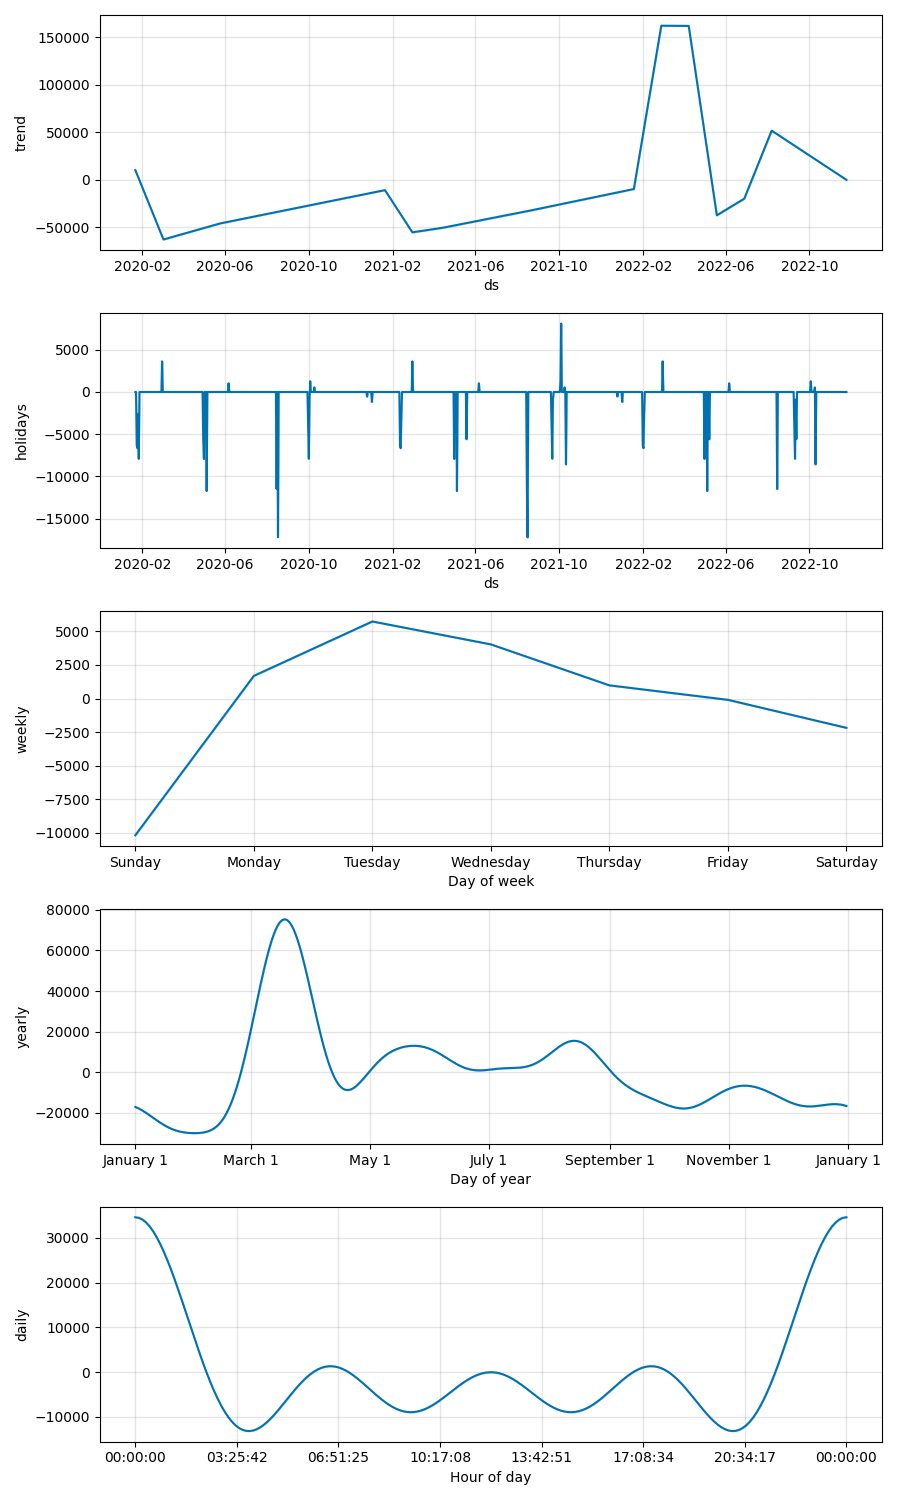
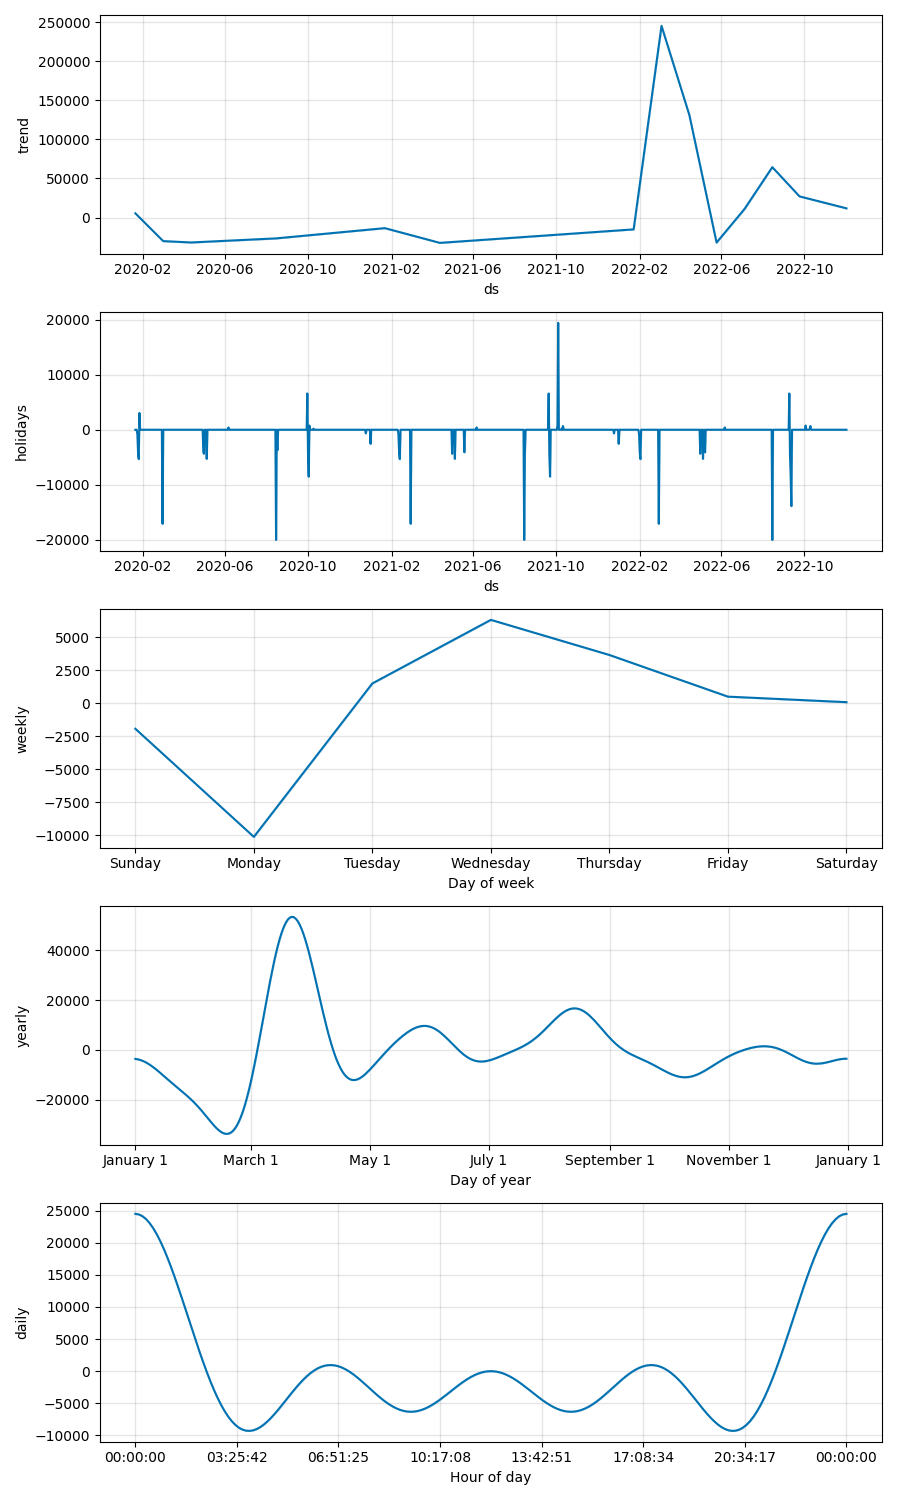
reloadfix

diff --git a/Regression2_py.py b/Regression2_py.py
@@ -2,7 +2,9 @@
 import pandas as pd
 import numpy as np
 import matplotlib.pyplot as plt
-from bs4 import BeautifulSoup
+import config 
+import xmltodict
+import requests
 
 import plotly.io as pi
 import plotly.graph_objs as go
@@ -11,29 +13,36 @@ import plotly.graph_objs as go
 from prophet import Prophet
 from prophet.plot import plot_plotly, add_changepoints_to_plot
 
+from datetime import datetime
+
 class Regression2_f :
-    def __init__(self) :
-        # 데이터 읽기 
-        url = 'https://raw.githubusercontent.com/owid/covid-19-data/master/public/data/owid-covid-data.csv'
-        df = pd.read_csv(url, error_bad_lines=False)
-        df_korea = df[df['location'] == 'South Korea'] # 한국 확진자수 데이터 추출
-        df_korea1 = df_korea.T[3:] # 한국 확진자수 데이터프레임 생성
-        # 한국의 확진자 시계열 데이터
-        df_korea = df_korea.reset_index().rename(columns={'date': 'Date', 'total_cases': 'Confirmed'})
-        df_korea['Date'] = pd.to_datetime(df_korea['Date'])
-        fig = go.Figure()
-        fig.add_trace(
-            go.Scatter(
-                x=df_korea.Date,
-                y=df_korea.total_vaccinations
-            )
-        )
-        self.df_korea = df_korea
+    def load_data(self) :
+        start_day = '20200101'
+        decoding_key = config.api_key
+        day = datetime.today().strftime('%Y%m%d') #오늘 날짜
+        params ={'serviceKey' : decoding_key, 'pageNo' : '1', 'numOfRows' : '10', 'startCreateDt' : start_day , 'endCreateDt' : day }
+        xml = requests.get('http://openapi.data.go.kr/openapi/service/rest/Covid19/getCovid19InfStateJson', params=params)
+        xml_dict = xmltodict.parse(xml.text)    
+        data = xml_dict['response']['body']['items']['item']
+        self.df = pd.DataFrame(data)
+        self.df = self.df.astype({'decideCnt' : 'int'})
+        L = [] 
+        for y in range (0, len(self.df)) : 
+            if y == len(self.df)-1 :
+                L.append(self.df.iloc[y,2])
+                break
+            L.append(self.df.iloc[y, 2] - self.df.iloc[y+1, 2])
+        self.df['new'] = L
+
+        self.df = self.df.drop([len(self.df)-1])
+        self.df['stateDt'] = pd.to_datetime(self.df['stateDt'])
+        self.df_korea = self.df 
+    
         
     def pred_Prophet (self) :
         df_prophet = self.df_korea.rename(columns={
-            'Date': 'ds',
-            'new_cases': 'y'
+            'stateDt': 'ds',
+            'new': 'y'
         })
         m = Prophet(
             changepoint_prior_scale=0.2, # 디폴트값 = 0.05

diff --git a/Regression_discord.py b/Regression_discord.py
@@ -10,6 +10,7 @@ client = commands.Bot(command_prefix='/',intents=discord.Intents.all())
 
 f = rp.Regression_f()
 f2 = rp2.Regression2_f()
+f2.load_data()
 f2.pred_Prophet()
 
 @client.event #다음으로, Client의 인스턴스를 만듭니다. 이 클라이언트는 디스코드로의 연결입니다.
@@ -23,10 +24,10 @@ async def on_message(message):
     if message.content.startswith('hello'):
         await message.channel.send('Hello!')
 
-
-
-
-
+    if message.content.startswith('reload'):
+        await message.channel.send('Ok wait a Minute Please!')
+        f2.load_data()
+        f2.pred_Prophet()
 
 
     if message.content.startswith("예측") :
